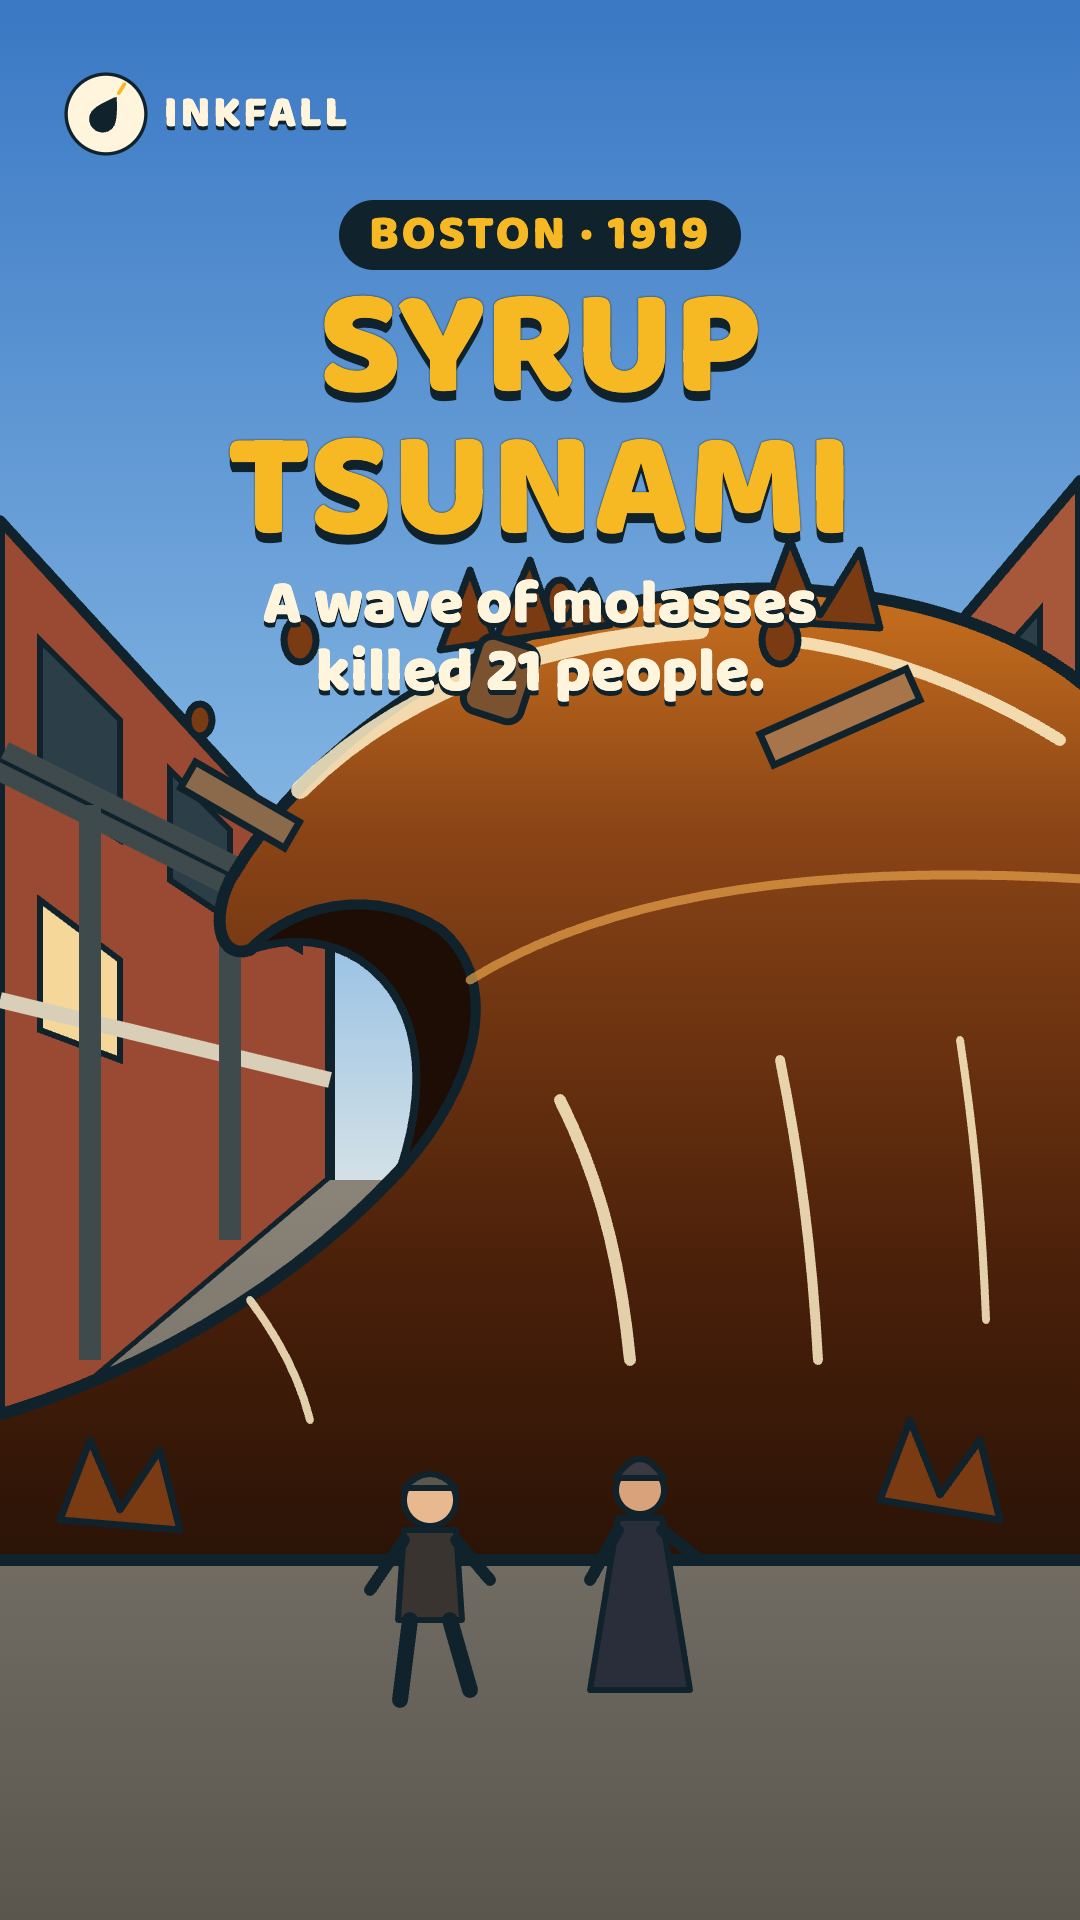
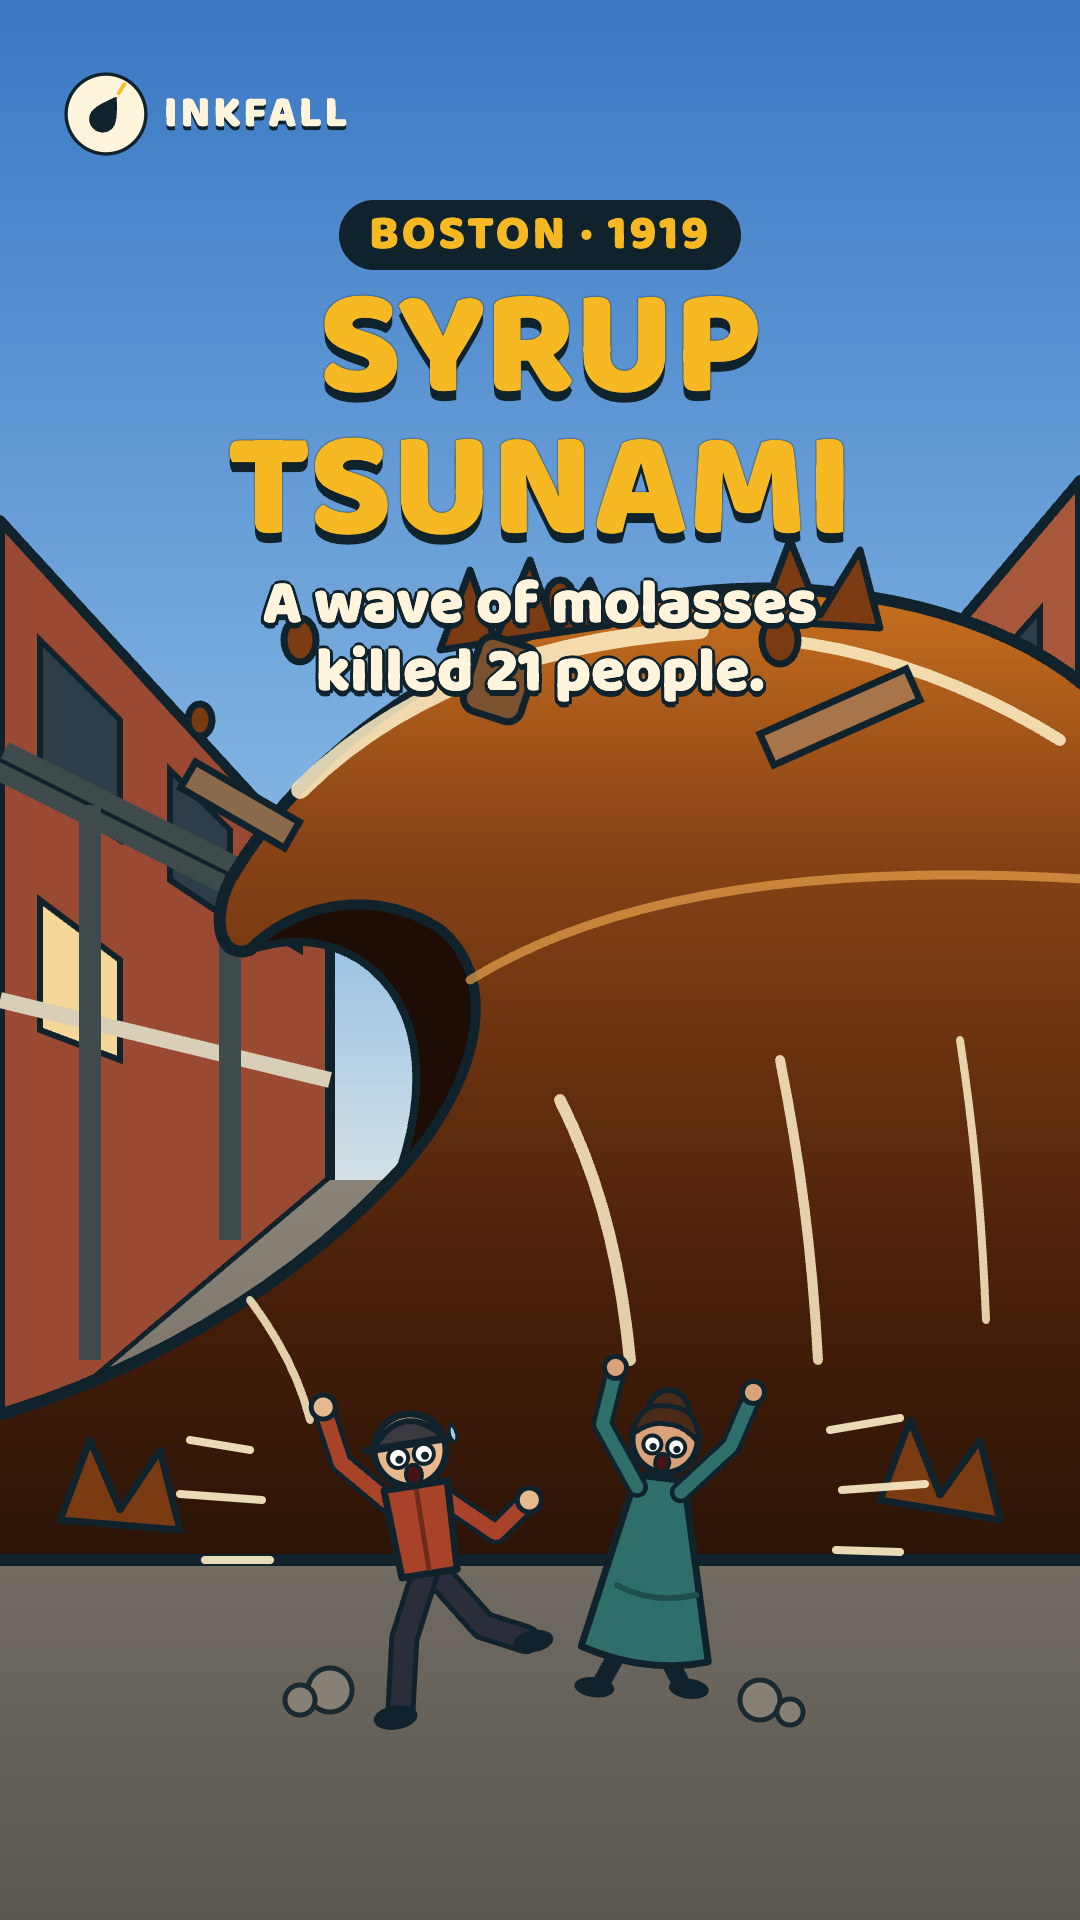
Molasses: panicked running figures on the thumbnail; final published without captions

diff --git a/brand/src/molasses-1919-thumb.html b/brand/src/molasses-1919-thumb.html
@@ -47,13 +47,42 @@ body{margin:0}
 </g>
 <g stroke="#10222B" stroke-width="7"><rect x="760" y="700" width="160" height="34" fill="#a8744a" transform="rotate(-24 840 717)"/><rect x="180" y="790" width="120" height="30" fill="#8a6a4a" transform="rotate(30 240 805)"/>
 <rect x="470" y="640" width="60" height="78" rx="14" fill="#7a5230" transform="rotate(18 500 680)"/></g>
-<!-- two small figures running toward us, ahead of the wave -->
-<g stroke="#10222B" stroke-width="6" stroke-linejoin="round">
-<circle cx="430" cy="1500" r="26" fill="#e8b98f"/><path d="M404 1488 Q430 1460 456 1488 Z" fill="#5a564e"/>
-<path d="M404 1530 L456 1530 L462 1620 L398 1620 Z" fill="#3a3430"/><path d="M410 1620 L400 1700 M450 1620 L470 1690" stroke-width="16" stroke-linecap="round"/>
-<path d="M404 1540 L370 1590 M456 1540 L490 1580" stroke-width="12" stroke-linecap="round"/>
-<circle cx="640" cy="1490" r="24" fill="#d9a27a"/><path d="M616 1478 Q640 1440 664 1478 Z" fill="#3a3a40"/>
-<path d="M618 1518 L662 1518 L690 1690 L590 1690 Z" fill="#2a2e3a"/><path d="M618 1530 L590 1580 M662 1530 L700 1560" stroke-width="12" stroke-linecap="round"/>
+<!-- two panicked people sprinting toward us, just ahead of the wave -->
+<g stroke="#fff0c8" stroke-width="8" stroke-linecap="round" opacity="0.9">
+<path d="M250 1450 L190 1440"/><path d="M262 1500 L180 1494"/><path d="M270 1560 L205 1560"/>
+<path d="M830 1430 L900 1418"/><path d="M842 1490 L925 1484"/><path d="M836 1550 L900 1552"/>
+</g>
+<g fill="#8a8378" stroke="#10222B" stroke-width="5" opacity="0.9"><circle cx="330" cy="1690" r="22"/><circle cx="300" cy="1700" r="15"/><circle cx="760" cy="1700" r="20"/><circle cx="790" cy="1712" r="13"/></g>
+<g transform="translate(410 1450) rotate(-9)" stroke-linejoin="round" stroke-linecap="round">
+ <path d="M0 115 L45 185 L85 205" fill="none" stroke="#10222B" stroke-width="30"/><path d="M0 115 L45 185 L85 205" fill="none" stroke="#2a2e3a" stroke-width="20"/>
+ <path d="M0 115 L-35 185 L-50 255" fill="none" stroke="#10222B" stroke-width="30"/><path d="M0 115 L-35 185 L-50 255" fill="none" stroke="#2a2e3a" stroke-width="20"/>
+ <ellipse cx="92" cy="208" rx="20" ry="11" fill="#10222B"/><ellipse cx="-56" cy="262" rx="22" ry="12" fill="#10222B"/>
+ <path d="M-26 52 L-70 2 L-78 -48" fill="none" stroke="#10222B" stroke-width="24"/><path d="M-26 52 L-70 2 L-78 -48" fill="none" stroke="#a8432a" stroke-width="15"/>
+ <path d="M26 52 L72 95 L104 72" fill="none" stroke="#10222B" stroke-width="24"/><path d="M26 52 L72 95 L104 72" fill="none" stroke="#a8432a" stroke-width="15"/>
+ <path d="M-32 36 L32 36 L28 125 L-28 125 Z" fill="#a8432a" stroke="#10222B" stroke-width="7"/>
+ <path d="M0 40 L0 120" stroke="#6e2a1a" stroke-width="5"/>
+ <circle cx="-79" cy="-56" r="12" fill="#e8b98f" stroke="#10222B" stroke-width="5"/><circle cx="110" cy="68" r="12" fill="#e8b98f" stroke="#10222B" stroke-width="5"/>
+ <circle cx="0" cy="0" r="36" fill="#e8b98f" stroke="#10222B" stroke-width="7"/>
+ <path d="M-37 -6 Q0 -52 37 -6 Z" fill="#3a3a40" stroke="#10222B" stroke-width="6"/><path d="M-44 -6 L44 -6" stroke="#10222B" stroke-width="8"/>
+ <circle cx="-13" cy="6" r="10" fill="#fff" stroke="#10222B" stroke-width="4"/><circle cx="13" cy="6" r="10" fill="#fff" stroke="#10222B" stroke-width="4"/>
+ <circle cx="-12" cy="8" r="4" fill="#10222B"/><circle cx="14" cy="8" r="4" fill="#10222B"/>
+ <ellipse cx="0" cy="25" rx="8" ry="10" fill="#4a1414" stroke="#10222B" stroke-width="4"/>
+ <path d="M44 -20 Q52 -8 46 0 Q38 -8 44 -20 Z" fill="#9fd3e6" stroke="#10222B" stroke-width="3"/>
+</g>
+<g transform="translate(665 1440) rotate(7)" stroke-linejoin="round" stroke-linecap="round">
+ <path d="M-14 200 L-34 250 M18 200 L46 240" fill="none" stroke="#10222B" stroke-width="18"/>
+ <ellipse cx="-40" cy="254" rx="20" ry="10" fill="#10222B"/><ellipse cx="54" cy="244" rx="20" ry="10" fill="#10222B"/>
+ <path d="M-24 38 L24 38 L70 215 Q10 235 -58 215 Z" fill="#2f6f6a" stroke="#10222B" stroke-width="7"/>
+ <path d="M-30 150 Q8 165 50 150" fill="none" stroke="#1f4f4c" stroke-width="6"/>
+ <path d="M-22 50 L-64 -8 L-58 -58" fill="none" stroke="#10222B" stroke-width="22"/><path d="M-22 50 L-64 -8 L-58 -58" fill="none" stroke="#2f6f6a" stroke-width="13"/>
+ <path d="M22 50 L66 -2 L80 -50" fill="none" stroke="#10222B" stroke-width="22"/><path d="M22 50 L66 -2 L80 -50" fill="none" stroke="#2f6f6a" stroke-width="13"/>
+ <circle cx="-58" cy="-66" r="11" fill="#d9a27a" stroke="#10222B" stroke-width="5"/><circle cx="82" cy="-58" r="11" fill="#d9a27a" stroke="#10222B" stroke-width="5"/>
+ <circle cx="0" cy="-30" r="20" fill="#4a2a18" stroke="#10222B" stroke-width="6"/>
+ <circle cx="0" cy="0" r="33" fill="#d9a27a" stroke="#10222B" stroke-width="7"/>
+ <path d="M-33 -2 Q-30 -36 0 -34 Q30 -36 33 -2 Q16 -18 0 -16 Q-16 -18 -33 -2 Z" fill="#4a2a18" stroke="#10222B" stroke-width="5"/>
+ <circle cx="-12" cy="6" r="9" fill="#fff" stroke="#10222B" stroke-width="4"/><circle cx="12" cy="6" r="9" fill="#fff" stroke="#10222B" stroke-width="4"/>
+ <circle cx="-11" cy="8" r="3.6" fill="#10222B"/><circle cx="13" cy="8" r="3.6" fill="#10222B"/>
+ <ellipse cx="0" cy="23" rx="7" ry="9" fill="#4a1414" stroke="#10222B" stroke-width="4"/>
 </g>
 </svg>
 <div style="position: absolute; left: 64px; top: 72px; display: flex; align-items: center; gap: 16px">
@@ -69,7 +98,7 @@ body{margin:0}
 <div style="position: absolute; left: 48px; right: 48px; top: 200px; display: flex; flex-direction: column; align-items: center; gap: 8px; text-align: center">
 <div style="padding: 6px 30px; border-radius: 999px; background: #10222B; font-size: 48px; line-height: 1.2; font-weight: 800; letter-spacing: 3px; color: #F6B924">BOSTON · 1919</div>
 <div style="font-size: 150px; line-height: 0.95; font-weight: 800; color: #F6B924; text-shadow: 0px 10px 0px #10222B, 0 0 2px #10222B">SYRUP<br>TSUNAMI</div>
-<div style="font-size: 62px; line-height: 1.1; font-weight: 800; color: #FFF4DC; text-shadow: 0 5px 0 #10222B">A wave of molasses<br>killed 21 people.</div>
+<div style="font-size: 62px; line-height: 1.1; font-weight: 800; color: #FFF4DC; text-shadow: 0 6px 0 #10222B, 3px 0 0 #10222B, -3px 0 0 #10222B, 0 -3px 0 #10222B, 3px 3px 0 #10222B, -3px 3px 0 #10222B">A wave of molasses<br>killed 21 people.</div>
 </div>
 </div>
 </body></html>
